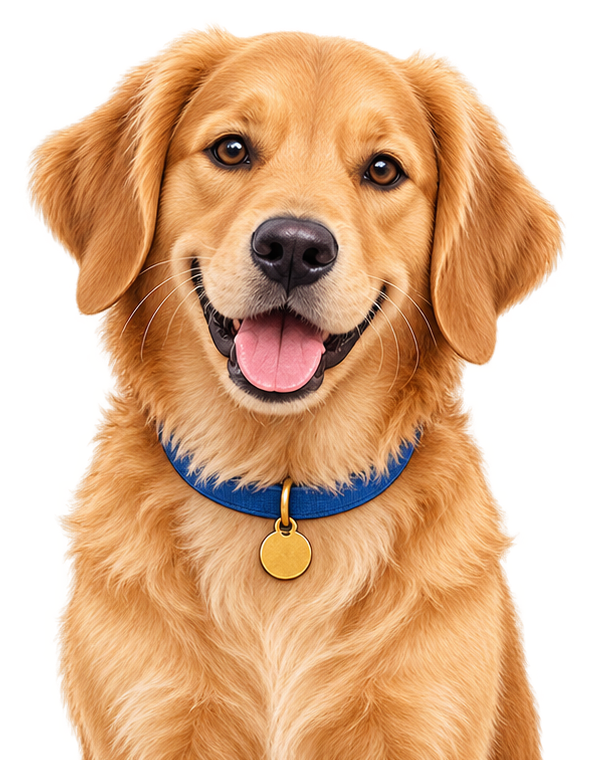
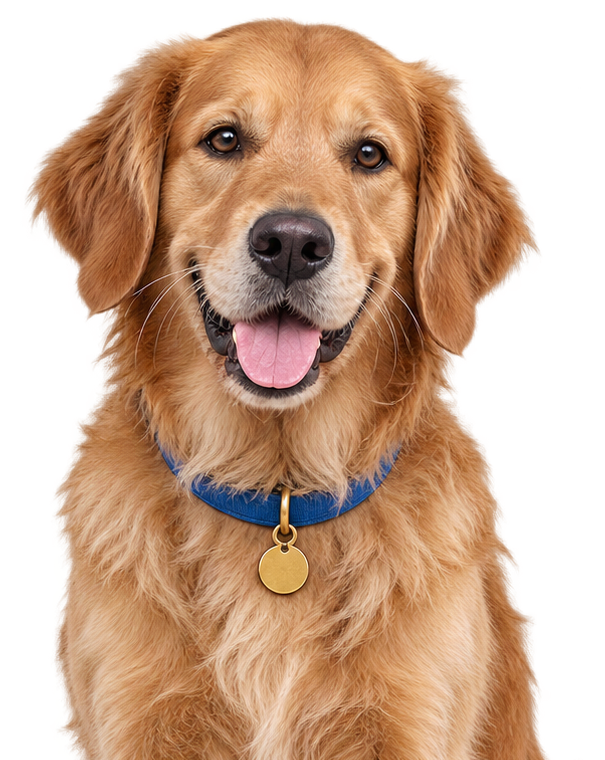
Add files via upload

diff --git a/script.js b/script.js
@@ -100,112 +100,82 @@ window.addEventListener('scroll', onScroll, { passive: true });
 onScroll();
 })();
 
-/* ---------- Ojos del perro: siguen el puntero (solo desktop) ---------- */
+/* ---------- Huellitas que siguen el puntero (solo desktop) ---------- */
 (function () {
-var wrap = document.getElementById('heroDogWrap');
-var pupilL = document.getElementById('dogPupilL');
-var pupilR = document.getElementById('dogPupilR');
-if (!wrap || !pupilL || !pupilR) return;
-
-var hero = wrap.closest('.hero');
 var reduceMotion = window.matchMedia('(prefers-reduced-motion: reduce)').matches;
 var canHover = window.matchMedia('(hover: hover) and (pointer: fine)').matches;
+if (reduceMotion || !canHover) return;
 
-var TIME_CONSTANT = 110; // ms, suavizado independiente de la tasa de refresco
-var maxOffset = 7; // px, recalculado según el tamaño real del perro
+var MIN_DIST = 46;      // px entre huellas
+var LIFETIME = 900;     // ms, duración del desvanecido
+var PAW_SIZE = 16;      // px
+var SIDE_OFFSET = 7;    // px, separación lateral tipo "caminata"
+var MAX_ACTIVE = 28;
 
-function recalcMaxOffset() {
-var rect = wrap.getBoundingClientRect();
-/* el radio disponible dentro del iris es pequeño: ~0.9% del ancho de la imagen */
-maxOffset = Math.max(2, Math.min(5, rect.width * 0.009));
-}
+var PAW_SVG = '<svg viewBox="0 0 24 24" fill="currentColor" width="100%" height="100%">' +
+'<ellipse cx="12" cy="16.2" rx="6.1" ry="5.1"/>' +
+'<circle cx="5.6" cy="8.4" r="2.6"/>' +
+'<circle cx="10.2" cy="4.6" r="2.35"/>' +
+'<circle cx="14.1" cy="4.6" r="2.35"/>' +
+'<circle cx="18.4" cy="8.4" r="2.6"/>' +
+'</svg>';
 
-var target = { x: 0, y: 0 };
-var current = { x: 0, y: 0 };
-var rafId = null;
-var lastTime = null;
-var inViewport = true;
+var layer = document.createElement('div');
+layer.className = 'paw-trail-layer';
+layer.setAttribute('aria-hidden', 'true');
+document.body.appendChild(layer);
 
-function setPupils(x, y) {
-var ex = x.toFixed(2) + 'px';
-var ey = y.toFixed(2) + 'px';
-pupilL.style.setProperty('--ex', ex);
-pupilL.style.setProperty('--ey', ey);
-pupilR.style.setProperty('--ex', ex);
-pupilR.style.setProperty('--ey', ey);
-}
+var lastX = null, lastY = null, side = 1, active = 0;
 
-function step(time) {
-if (lastTime === null) lastTime = time;
-var dt = time - lastTime;
-lastTime = time;
+function spawnPaw(x, y, angleDeg) {
+if (active >= MAX_ACTIVE) return;
+var el = document.createElement('span');
+el.className = 'paw-print';
+el.innerHTML = PAW_SVG;
 
-var alpha = 1 - Math.exp(-dt / TIME_CONSTANT);
-current.x += (target.x - current.x) * alpha;
-current.y += (target.y - current.y) * alpha;
+var rad = (angleDeg + 90) * Math.PI / 180; /* perpendicular a la dirección */
+var ox = Math.cos(rad) * SIDE_OFFSET * side;
+var oy = Math.sin(rad) * SIDE_OFFSET * side;
+side *= -1;
 
-setPupils(current.x, current.y);
+el.style.left = (x + ox) + 'px';
+el.style.top = (y + oy) + 'px';
+el.style.width = PAW_SIZE + 'px';
+el.style.height = PAW_SIZE + 'px';
+/* la huella (SVG) apunta "hacia arriba" por defecto; +90 alinea los dedos con el avance */
+el.style.setProperty('--paw-rot', (angleDeg + 90) + 'deg');
 
-var settled = Math.abs(target.x - current.x) < 0.03 &&
-Math.abs(target.y - current.y) < 0.03;
+layer.appendChild(el);
+active++;
 
-if (!settled) {
-rafId = requestAnimationFrame(step);
-} else {
-rafId = null;
-lastTime = null;
-}
-}
+requestAnimationFrame(function () {
+requestAnimationFrame(function () {
+el.classList.add('paw-print--fade');
+});
+});
 
-function ensureLoop() {
-if (rafId === null && document.visibilityState === 'visible' && inViewport) {
-rafId = requestAnimationFrame(step);
-}
+window.setTimeout(function () {
+if (el.parentNode) el.parentNode.removeChild(el);
+active--;
+}, LIFETIME + 80);
 }
 
 function onPointerMove(e) {
-if (!hero) return;
-recalcMaxOffset();
-var rect = wrap.getBoundingClientRect();
-var cx = rect.left + rect.width / 2;
-var cy = rect.top + rect.height * 0.27; /* altura aprox. de los ojos */
-var nx = (e.clientX - cx) / (rect.width / 2);
-var ny = (e.clientY - cy) / (rect.height / 2);
-nx = Math.max(-1, Math.min(1, nx));
-ny = Math.max(-1, Math.min(1, ny));
+if (lastX === null) {
+lastX = e.clientX;
+lastY = e.clientY;
+return;
+}
+var dx = e.clientX - lastX;
+var dy = e.clientY - lastY;
+var dist = Math.sqrt(dx * dx + dy * dy);
+if (dist < MIN_DIST) return;
 
-target.x = nx * maxOffset;
-target.y = ny * maxOffset;
-ensureLoop();
+var angle = Math.atan2(dy, dx) * 180 / Math.PI;
+spawnPaw(e.clientX, e.clientY, angle);
+lastX = e.clientX;
+lastY = e.clientY;
 }
 
-function onPointerLeave() {
-target.x = 0;
-target.y = 0;
-ensureLoop();
-}
-
-if (canHover && !reduceMotion && hero) {
-recalcMaxOffset();
-hero.addEventListener('pointermove', onPointerMove);
-hero.addEventListener('pointerleave', onPointerLeave);
-window.addEventListener('resize', recalcMaxOffset, { passive: true });
-
-if ('IntersectionObserver' in window) {
-var io = new IntersectionObserver(function (entries) {
-entries.forEach(function (entry) {
-inViewport = entry.isIntersecting;
-if (inViewport) ensureLoop();
-});
-}, { threshold: 0 });
-io.observe(hero);
-}
-
-document.addEventListener('visibilitychange', function () {
-if (document.visibilityState === 'visible') ensureLoop();
-});
-} else if (!reduceMotion) {
-/* Táctil / sin mouse fino: una sola animación de bienvenida, solo en los ojos */
-wrap.classList.add('hero-dog-welcome');
-}
+document.addEventListener('pointermove', onPointerMove, { passive: true });
 })();

diff --git a/style.css b/style.css
@@ -290,48 +290,26 @@ position: relative; z-index: 1;
 width: 100%; height: 100%; object-fit: contain;
 }
 
-/* Ojos interactivos: la pupila se desplaza, la imagen base permanece fija */
-.hero-dog-eye {
-position: absolute;
-z-index: 2;
-width: 2.3%; height: 1.85%;
-transform: translate(-50%, -50%);
+/* Huellitas que siguen el puntero por toda la página */
+.paw-trail-layer {
+position: fixed;
+inset: 0;
 pointer-events: none;
+z-index: 9999;
 }
-.hero-dog-eye--l { left: 34.6%; top: 20.6%; }
-.hero-dog-eye--r { left: 65.2%; top: 21.3%; }
-.hero-dog-pupil {
-display: block;
-position: relative;
-width: 100%; height: 100%;
-border-radius: 50%;
-background: radial-gradient(circle at 32% 28%, #3c260f 0%, #150b03 60%, #000 100%);
-box-shadow: inset 0 0 0 1px rgba(0,0,0,0.3), 0 0 2.5px 1.5px rgba(28,15,5,0.55);
-transform: translate(var(--ex, 0px), var(--ey, 0px));
-will-change: transform;
+.paw-print {
+position: fixed;
+color: var(--navy);
+opacity: 0.5;
+transform: translate(-50%, -50%) rotate(var(--paw-rot, 0deg));
+transition: opacity 900ms ease, transform 900ms ease;
 }
-.hero-dog-pupil::after {
-content: '';
-position: absolute;
-width: 30%; height: 30%;
-top: 12%; left: 16%;
-background: rgba(255,255,255,0.7);
-border-radius: 50%;
-}
-
-/* Bienvenida táctil: solo los ojos, una única pasada, sin loop */
-.hero-dog-welcome .hero-dog-pupil {
-animation: heroEyeWelcome 2.4s ease-out 1 both;
-}
-@keyframes heroEyeWelcome {
-0%   { transform: translate(0,0); }
-30%  { transform: translate(2px, 0.6px); }
-55%  { transform: translate(-2px, 1px); }
-80%  { transform: translate(0.6px, -0.6px); }
-100% { transform: translate(0,0); }
+.paw-print--fade {
+opacity: 0;
+transform: translate(-50%, -50%) translateY(6px) scale(0.72) rotate(var(--paw-rot, 0deg));
 }
 @media (prefers-reduced-motion: reduce) {
-.hero-dog-welcome .hero-dog-pupil { animation: none; }
+.paw-trail-layer { display: none; }
 }
 
 @media (min-width: 768px) {

diff --git a/index.html b/index.html
@@ -97,8 +97,6 @@
 <source srcset="assets/mascota/perro-angupets-hero.webp" type="image/webp">
 <img src="assets/mascota/perro-angupets-hero.png" alt="" width="605" height="760" loading="eager" fetchpriority="high">
 </picture>
-<span class="hero-dog-eye hero-dog-eye--l" aria-hidden="true"><span class="hero-dog-pupil" id="dogPupilL"></span></span>
-<span class="hero-dog-eye hero-dog-eye--r" aria-hidden="true"><span class="hero-dog-pupil" id="dogPupilR"></span></span>
 </div>
 </div>
 
